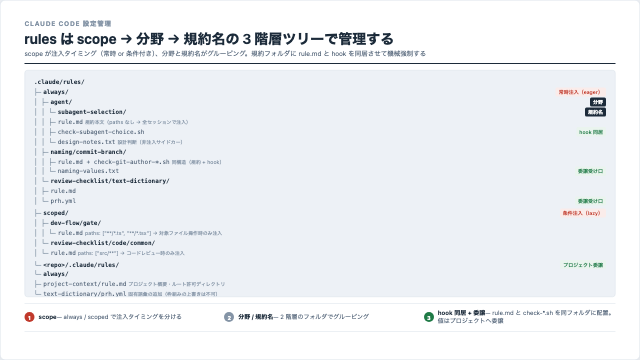
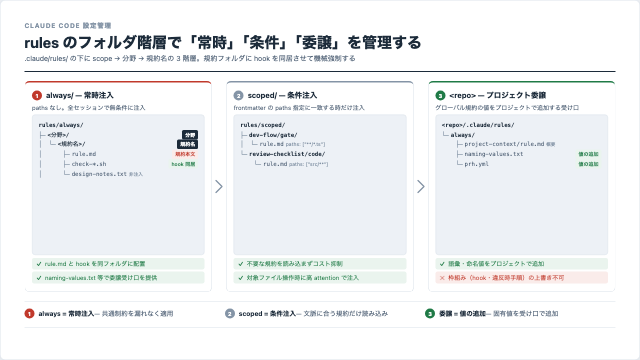
【修正】rules 階層スライドを 3 段カード+ツリー構成に作り直し
全面ツリーダンプから claude-md分割戦略 と同じ stage-card パターンに変更。
always/scoped/委譲 の 3 カードに分け、各カード内にコンパクトなツリーを配置。

Claude-Session: https://claude.ai/code/session_01DeXVJcLyfUZPuGFQFdDKnJ

diff --git a/slides/rules階層構造-三層読み分け/解説スライド.html b/slides/rules階層構造-三層読み分け/解説スライド.html
@@ -1,5 +1,5 @@
 <meta charset="utf-8">
-<title>rules は scope → 分野 → 規約名の 3 階層ツリーで管理する</title>
+<title>rules のフォルダ階層で「常時」「条件」「委譲」の 3 種類を管理する</title>
 <style>
   :root {
     --page: #EDF0F4;
@@ -40,39 +40,71 @@
     border-radius: 10px;
     box-shadow: 0 4px 24px rgba(28, 43, 58, 0.08);
     display: flex; flex-direction: column;
-    padding: 36px 48px;
-    gap: 12px;
+    padding: 40px 48px;
+    gap: 18px;
     font-family: system-ui, -apple-system, 'Segoe UI', 'Hiragino Sans', sans-serif;
     transform: translate(-50%, -50%) scale(var(--slide-scale, 1));
     transform-origin: center center;
   }
 
   .slide-header {
-    display: flex; flex-direction: column; gap: 3px;
-    padding-bottom: 10px;
+    display: flex; flex-direction: column; gap: 4px;
+    padding-bottom: 14px;
     border-bottom: 2px solid var(--ink);
   }
   .slide-eyebrow { font-size: 13px; font-weight: 700; letter-spacing: 0.12em; color: var(--ink-3); }
-  .slide-title { font-size: 28px; font-weight: 700; line-height: 1.25; color: var(--ink); text-wrap: balance; }
-  .slide-subtitle { font-size: 13px; color: var(--ink-2); line-height: 1.4; }
+  .slide-title { font-size: 30px; font-weight: 700; line-height: 1.25; color: var(--ink); }
+  .slide-subtitle { font-size: 14px; color: var(--ink-2); }
+
+  .stages-grid {
+    display: grid;
+    grid-template-columns: 1fr 28px 1fr 28px 1fr;
+    flex: 1;
+    min-height: 0;
+    align-items: stretch;
+  }
+  .stage-arrow { display: flex; align-items: center; justify-content: center; }
+  .stage-card {
+    border: 1.5px solid var(--border);
+    border-radius: 10px;
+    padding: 16px 14px;
+    display: flex; flex-direction: column;
+    gap: 6px;
+    overflow: hidden;
+  }
+  .stage-card--critical { border-top: 3.5px solid var(--critical); }
+  .stage-card--partial  { border-top: 3.5px solid var(--ink-3); }
+  .stage-card--good     { border-top: 3.5px solid var(--good); }
+
+  .stage-head { display: flex; align-items: center; gap: 8px; }
+  .stage-head h2 { font-size: 15px; font-weight: 700; color: var(--ink); line-height: 1.3; }
+  .stage-desc { font-size: 12px; color: var(--ink-2); line-height: 1.4; }
+
+  .step-chip {
+    display: inline-flex; align-items: center; justify-content: center;
+    width: 20px; height: 20px;
+    border-radius: 50%; font-size: 11px; font-weight: 700; color: #fff; flex-shrink: 0;
+  }
+  .step-chip--critical { background: var(--critical); }
+  .step-chip--partial  { background: var(--ink-3); }
+  .step-chip--good     { background: var(--good); }
 
   .tree {
     background: var(--tag-bg);
     border: 1px solid var(--border);
     border-radius: 6px;
-    padding: 14px 18px;
+    padding: 10px 12px;
     font-family: 'SF Mono', 'Cascadia Code', 'Consolas', 'Menlo', monospace;
-    font-size: 12px;
-    line-height: 1.65;
+    font-size: 11.5px;
+    line-height: 1.7;
     color: var(--ink-2);
     flex: 1;
-    min-height: 0;
     overflow: hidden;
   }
   .tree-line { display: flex; align-items: baseline; gap: 4px; white-space: nowrap; }
   .tree-indent { color: var(--ink-3); user-select: none; }
   .tree-folder { color: var(--ink); font-weight: 600; }
-  .tree-note { font-size: 10.5px; color: var(--ink-3); font-family: system-ui, sans-serif; }
+  .tree-note { font-size: 10px; color: var(--ink-3); font-family: system-ui, sans-serif; }
   .tree-tag {
     font-family: system-ui, -apple-system, 'Segoe UI', 'Hiragino Sans', sans-serif;
     font-size: 10px; font-weight: 600;
@@ -84,24 +116,29 @@
   .tree-tag--critical { background: var(--critical-soft); color: var(--critical); }
   .tree-tag--good     { background: var(--good-soft); color: var(--good); }
   .tree-tag--accent   { background: var(--ink); color: #fff; }
-  .tree-sep { height: 4px; }
 
-  .step-chip {
-    display: inline-flex; align-items: center; justify-content: center;
-    width: 20px; height: 20px;
-    border-radius: 50%; font-size: 11px; font-weight: 700; color: #fff; flex-shrink: 0;
+  .stage-status { display: flex; flex-direction: column; gap: 4px; }
+  .status-row {
+    display: flex; align-items: flex-start; gap: 6px;
+    font-size: 12px; line-height: 1.3;
+    padding: 4px 8px;
+    border-radius: 4px;
   }
-  .step-chip--critical { background: var(--critical); }
-  .step-chip--good { background: var(--good); }
-  .step-chip--partial { background: var(--ink-3); }
+  .status-ng { background: var(--critical-soft); color: var(--critical); }
+  .status-ok { background: var(--good-soft); color: var(--good); }
+  .status-icon { font-weight: 700; flex-shrink: 0; width: 1em; text-align: center; }
 
-  .steps { display: grid; grid-template-columns: 1fr 1fr 1fr; gap: 16px; padding-top: 10px; border-top: 1px solid var(--border); }
+  .steps {
+    display: grid; grid-template-columns: 1fr 1fr 1fr;
+    gap: 20px; padding-top: 14px;
+    border-top: 1px solid var(--border);
+  }
   .step { display: flex; gap: 8px; align-items: center; }
-  .step-text { font-size: 12px; line-height: 1.4; color: var(--ink-2); }
+  .step-text { font-size: 13px; line-height: 1.4; color: var(--ink-2); }
   .step-text strong { color: var(--ink); }
 
   .slide-meta {
-    height: 20px;
+    height: 24px;
     padding-top: 6px;
     border-top: 1px solid var(--border);
   }
@@ -112,49 +149,96 @@
 
     <header class="slide-header">
       <span class="slide-eyebrow">CLAUDE CODE 設定管理</span>
-      <h1 class="slide-title">rules は scope → 分野 → 規約名の 3 階層ツリーで管理する</h1>
-      <p class="slide-subtitle">scope が注入タイミング（常時 or 条件付き）、分野と規約名がグルーピング。規約フォルダに rule.md と hook を同居させて機械強制する</p>
+      <h1 class="slide-title">rules のフォルダ階層で「常時」「条件」「委譲」を管理する</h1>
+      <p class="slide-subtitle">.claude/rules/ の下に scope → 分野 → 規約名の 3 階層。規約フォルダに hook を同居させて機械強制する</p>
     </header>
 
-    <div class="tree">
-      <div class="tree-line"><span class="tree-folder">.claude/rules/</span></div>
-      <div class="tree-line"><span class="tree-indent">├─</span> <span class="tree-folder">always/</span> <span class="tree-tag tree-tag--critical">常時注入（eager）</span></div>
-      <div class="tree-line"><span class="tree-indent">│  ├─</span> <span class="tree-folder">agent/</span> <span class="tree-tag tree-tag--accent">分野</span></div>
-      <div class="tree-line"><span class="tree-indent">│  │  └─</span> <span class="tree-folder">subagent-selection/</span> <span class="tree-tag tree-tag--accent">規約名</span></div>
-      <div class="tree-line"><span class="tree-indent">│  │     ├─</span> rule.md <span class="tree-note">規約本文（paths なし → 全セッションで注入）</span></div>
-      <div class="tree-line"><span class="tree-indent">│  │     ├─</span> check-subagent-choice.sh <span class="tree-tag tree-tag--good">hook 同居</span></div>
-      <div class="tree-line"><span class="tree-indent">│  │     └─</span> design-notes.txt <span class="tree-note">設計判断（非注入サイドカー）</span></div>
-      <div class="tree-line"><span class="tree-indent">│  ├─</span> <span class="tree-folder">naming/commit-branch/</span></div>
-      <div class="tree-line"><span class="tree-indent">│  │  ├─</span> rule.md + check-git-author-*.sh <span class="tree-note">同構造（規約 + hook）</span></div>
-      <div class="tree-line"><span class="tree-indent">│  │  └─</span> naming-values.txt <span class="tree-tag tree-tag--good">委譲受け口</span></div>
-      <div class="tree-line"><span class="tree-indent">│  └─</span> <span class="tree-folder">review-checklist/text-dictionary/</span></div>
-      <div class="tree-line"><span class="tree-indent">│     ├─</span> rule.md</div>
-      <div class="tree-line"><span class="tree-indent">│     └─</span> prh.yml <span class="tree-tag tree-tag--good">委譲受け口</span></div>
-      <div class="tree-sep"></div>
-      <div class="tree-line"><span class="tree-indent">├─</span> <span class="tree-folder">scoped/</span> <span class="tree-tag tree-tag--critical">条件注入（lazy）</span></div>
-      <div class="tree-line"><span class="tree-indent">│  ├─</span> <span class="tree-folder">dev-flow/gate/</span></div>
-      <div class="tree-line"><span class="tree-indent">│  │  └─</span> rule.md <span class="tree-note">paths: ["**/*.ts", "**/*.tsx"] → 対象ファイル操作時のみ注入</span></div>
-      <div class="tree-line"><span class="tree-indent">│  └─</span> <span class="tree-folder">review-checklist/code/common/</span></div>
-      <div class="tree-line"><span class="tree-indent">│     └─</span> rule.md <span class="tree-note">paths: ["src/**"] → コードレビュー時のみ注入</span></div>
-      <div class="tree-sep"></div>
-      <div class="tree-line"><span class="tree-indent">└─</span> <span class="tree-folder">&lt;repo&gt;/.claude/rules/</span> <span class="tree-tag tree-tag--good">プロジェクト委譲</span></div>
-      <div class="tree-line"><span class="tree-indent">   └─</span> <span class="tree-folder">always/</span></div>
-      <div class="tree-line"><span class="tree-indent">      ├─</span> project-context/rule.md <span class="tree-note">プロジェクト概要・ルート許可ディレクトリ</span></div>
-      <div class="tree-line"><span class="tree-indent">      └─</span> text-dictionary/prh.yml <span class="tree-note">固有語彙の追加（枠組みの上書きは不可）</span></div>
+    <div class="stages-grid">
+
+      <article class="stage-card stage-card--critical">
+        <div class="stage-head">
+          <span class="step-chip step-chip--critical">1</span>
+          <h2>always/ — 常時注入</h2>
+        </div>
+        <p class="stage-desc">paths なし。全セッションで無条件に注入</p>
+        <div class="tree">
+          <div class="tree-line"><span class="tree-folder">rules/always/</span></div>
+          <div class="tree-line"><span class="tree-indent">├─</span> <span class="tree-folder">&lt;分野&gt;/</span> <span class="tree-tag tree-tag--accent">分野</span></div>
+          <div class="tree-line"><span class="tree-indent">│&nbsp; └─</span> <span class="tree-folder">&lt;規約名&gt;/</span> <span class="tree-tag tree-tag--accent">規約名</span></div>
+          <div class="tree-line"><span class="tree-indent">│&nbsp; &nbsp; &nbsp; ├─</span> rule.md <span class="tree-tag tree-tag--critical">規約本文</span></div>
+          <div class="tree-line"><span class="tree-indent">│&nbsp; &nbsp; &nbsp; ├─</span> check-*.sh <span class="tree-tag tree-tag--good">hook 同居</span></div>
+          <div class="tree-line"><span class="tree-indent">│&nbsp; &nbsp; &nbsp; └─</span> design-notes.txt <span class="tree-note">非注入</span></div>
+        </div>
+        <div class="stage-status">
+          <div class="status-row status-ok"><span class="status-icon">✓</span><span>rule.md と hook を同フォルダに配置</span></div>
+          <div class="status-row status-ok"><span class="status-icon">✓</span><span>naming-values.txt 等で委譲受け口を提供</span></div>
+        </div>
+      </article>
+
+      <div class="stage-arrow">
+        <svg width="16" height="28" viewBox="0 0 16 28" fill="none">
+          <path d="M2 2 L14 14 L2 26" stroke="var(--ink-3)" stroke-width="2.5" stroke-linecap="round" stroke-linejoin="round"/>
+        </svg>
+      </div>
+
+      <article class="stage-card stage-card--partial">
+        <div class="stage-head">
+          <span class="step-chip step-chip--partial">2</span>
+          <h2>scoped/ — 条件注入</h2>
+        </div>
+        <p class="stage-desc">frontmatter の paths 指定に一致する時だけ注入</p>
+        <div class="tree">
+          <div class="tree-line"><span class="tree-folder">rules/scoped/</span></div>
+          <div class="tree-line"><span class="tree-indent">├─</span> <span class="tree-folder">dev-flow/gate/</span></div>
+          <div class="tree-line"><span class="tree-indent">│&nbsp; └─</span> rule.md <span class="tree-note">paths: ["**/*.ts"]</span></div>
+          <div class="tree-line"><span class="tree-indent">└─</span> <span class="tree-folder">review-checklist/code/</span></div>
+          <div class="tree-line"><span class="tree-indent">&nbsp; &nbsp; └─</span> rule.md <span class="tree-note">paths: ["src/**"]</span></div>
+        </div>
+        <div class="stage-status">
+          <div class="status-row status-ok"><span class="status-icon">✓</span><span>不要な規約を読み込まずコスト抑制</span></div>
+          <div class="status-row status-ok"><span class="status-icon">✓</span><span>対象ファイル操作時に高 attention で注入</span></div>
+        </div>
+      </article>
+
+      <div class="stage-arrow">
+        <svg width="16" height="28" viewBox="0 0 16 28" fill="none">
+          <path d="M2 2 L14 14 L2 26" stroke="var(--ink-3)" stroke-width="2.5" stroke-linecap="round" stroke-linejoin="round"/>
+        </svg>
+      </div>
+
+      <article class="stage-card stage-card--good">
+        <div class="stage-head">
+          <span class="step-chip step-chip--good">3</span>
+          <h2>&lt;repo&gt; — プロジェクト委譲</h2>
+        </div>
+        <p class="stage-desc">グローバル規約の値をプロジェクトで追加する受け口</p>
+        <div class="tree">
+          <div class="tree-line"><span class="tree-folder">&lt;repo&gt;/.claude/rules/</span></div>
+          <div class="tree-line"><span class="tree-indent">└─</span> <span class="tree-folder">always/</span></div>
+          <div class="tree-line"><span class="tree-indent">&nbsp; &nbsp; ├─</span> project-context/rule.md <span class="tree-note">概要</span></div>
+          <div class="tree-line"><span class="tree-indent">&nbsp; &nbsp; ├─</span> naming-values.txt <span class="tree-tag tree-tag--good">値の追加</span></div>
+          <div class="tree-line"><span class="tree-indent">&nbsp; &nbsp; └─</span> prh.yml <span class="tree-tag tree-tag--good">値の追加</span></div>
+        </div>
+        <div class="stage-status">
+          <div class="status-row status-ok"><span class="status-icon">✓</span><span>語彙・命名値をプロジェクトで追加</span></div>
+          <div class="status-row status-ng"><span class="status-icon">✕</span><span>枠組み（hook・違反時手順）の上書き不可</span></div>
+        </div>
+      </article>
+
     </div>
 
     <footer class="steps">
       <div class="step">
         <span class="step-chip step-chip--critical">1</span>
-        <p class="step-text"><strong>scope</strong>— always / scoped で注入タイミングを分ける</p>
+        <p class="step-text"><strong>always = 常時注入</strong>— 共通制約を漏れなく適用</p>
       </div>
       <div class="step">
         <span class="step-chip step-chip--partial">2</span>
-        <p class="step-text"><strong>分野 / 規約名</strong>— 2 階層のフォルダでグルーピング</p>
+        <p class="step-text"><strong>scoped = 条件注入</strong>— 文脈に合う規約だけ読み込み</p>
       </div>
       <div class="step">
         <span class="step-chip step-chip--good">3</span>
-        <p class="step-text"><strong>hook 同居 + 委譲</strong>— rule.md と check-*.sh を同フォルダに配置。値はプロジェクトへ委譲</p>
+        <p class="step-text"><strong>委譲 = 値の追加</strong>— 固有値を受け口で追加</p>
       </div>
     </footer>
 

diff --git a/index.html b/index.html
@@ -819,7 +819,7 @@ const SLIDES = [
   },
   {
     "key": "rules階層構造-三層読み分け",
-    "title": "rules は scope → 分野 → 規約名の 3 階層ツリーで管理する",
+    "title": "rules のフォルダ階層で「常時」「条件」「委譲」の 3 種類を管理する",
     "target": "rules の内部階層構造（always/scoped の 2 層読み分けとプロジェクト委譲の仕組み）",
     "problems": "規約を書いても AI に読まれない・読み込みコストが膨らむ",
     "tools": [